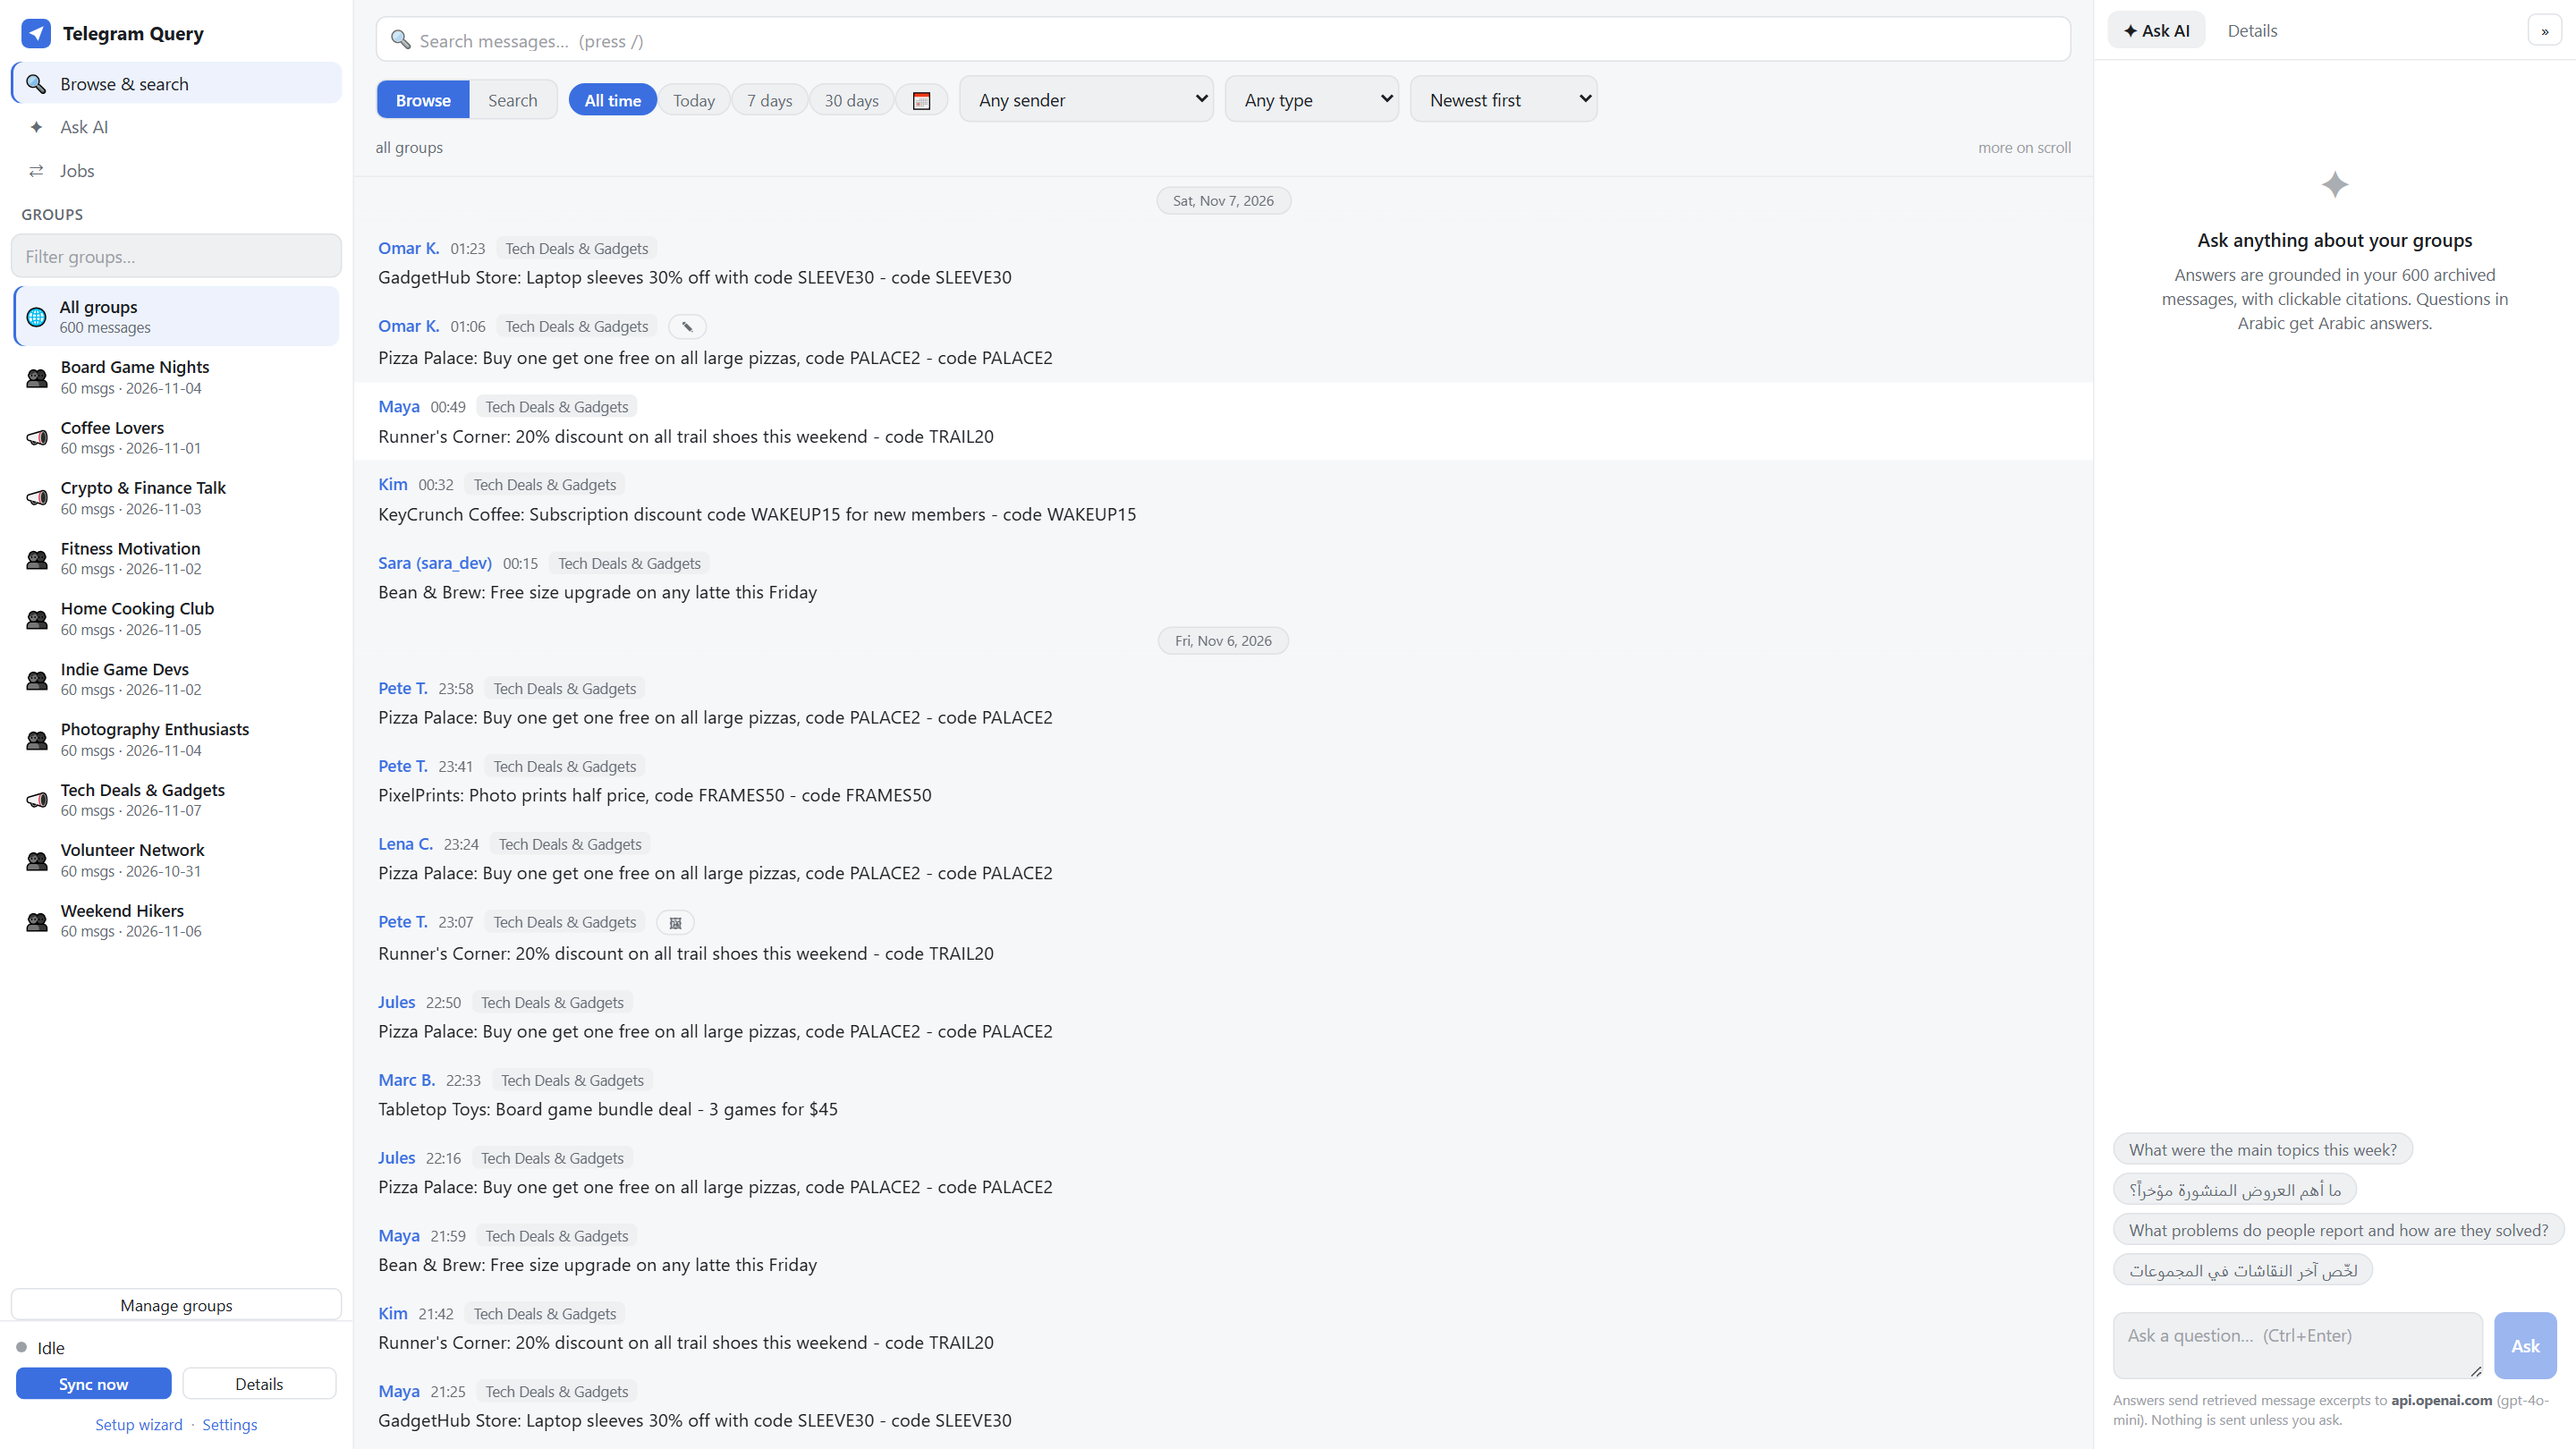
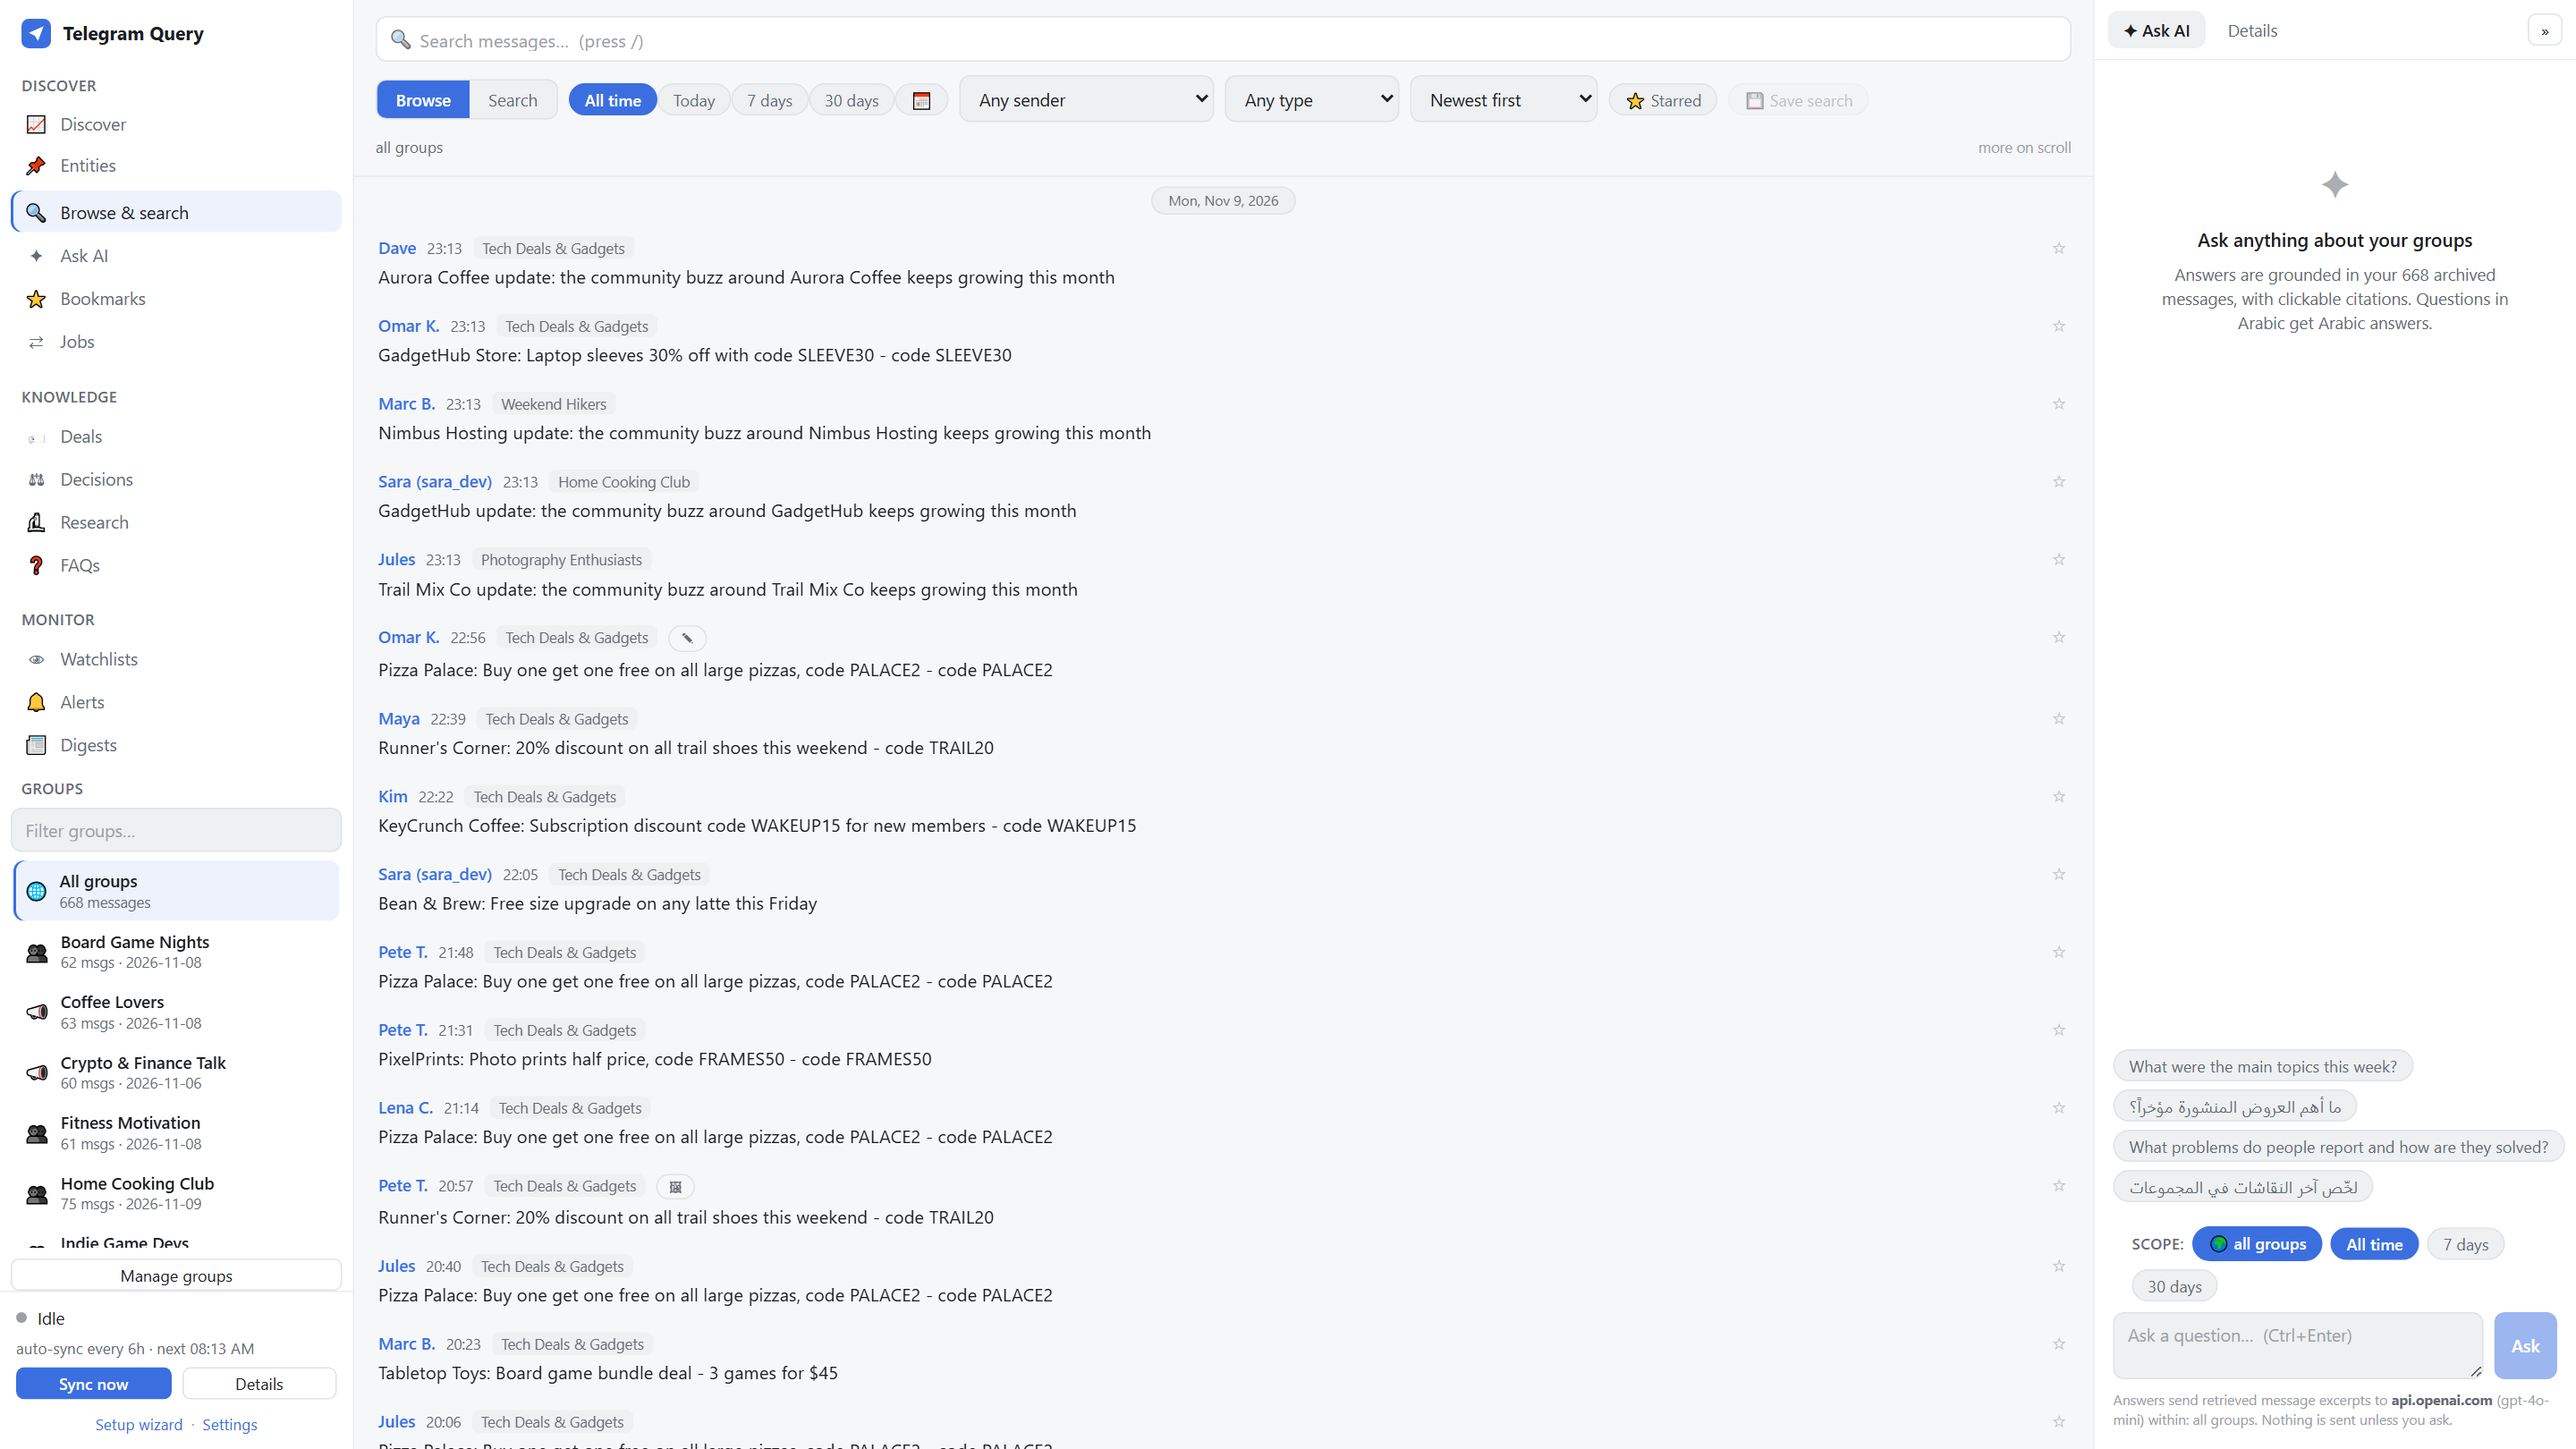
docs: showcase Discover landing view with refreshed screenshots
- README now leads with Discover and drops the "new" tag
- add discover dark/light screenshots; refresh feed, search, onboarding
- take_screenshots.py captures Discover first, then Browse feed

diff --git a/scripts/take_screenshots.py b/scripts/take_screenshots.py
@@ -113,16 +113,33 @@ def main() -> None:
             page = ctx.new_page()
             base = f"http://127.0.0.1:{args.port}"
 
-            def goto_feed(theme: str):
-                """Load the feed in the given theme, wizard dismissed."""
-                page.goto(f"{base}/?shot")
-                page.wait_for_selector(".app")
-                page.evaluate(f"localStorage.setItem('tgq-theme', '{theme}')")
-                page.reload()
-                page.wait_for_selector(".app")
+            def dismiss_wizard():
                 page.wait_for_timeout(2500)
                 if page.locator(".wizard").count():
                     page.click(".wizard-head .btn")
+
+            def set_theme(theme: str):
+                page.evaluate(f"localStorage.setItem('tgq-theme', '{theme}')")
+                page.reload()
+                page.wait_for_selector(".app")
+
+            def open_discover(theme: str):
+                """Load the app in discover mode (default landing view)."""
+                page.goto(f"{base}/?shot")
+                page.wait_for_selector(".app")
+                set_theme(theme)
+                dismiss_wizard()
+                # wait for discover data (trending topics or empty state)
+                page.wait_for_selector(".trend-row, .side-note")
+                page.wait_for_timeout(600)
+
+            def open_browse(theme: str):
+                """Switch to Browse & search and wait for the feed."""
+                page.goto(f"{base}/?shot")
+                page.wait_for_selector(".app")
+                set_theme(theme)
+                dismiss_wizard()
+                page.locator("button:has-text('Browse')").first.click()
                 page.wait_for_selector(".msg-card")
                 page.wait_for_timeout(600)
 
@@ -139,20 +156,28 @@ def main() -> None:
             page.wait_for_timeout(400)
             save("onboarding")
 
-            # 2) dark feed with the ten synthetic groups
-            goto_feed("dark")
+            # 2) Discover view (dark) — the new landing view since v0.7
+            open_discover("dark")
+            save("discover-dark")
+
+            # 3) Browse feed (dark)
+            open_browse("dark")
             assert page.locator(".group-row").count() == 11  # 10 groups + All
             save("feed-dark")
 
-            # 3) search with highlighting
+            # 4) search with highlighting
             page.fill(".searchbox input", "discount")
             page.press(".searchbox input", "Enter")
             page.wait_for_selector("mark")
             page.wait_for_timeout(800)
             save("search")
 
-            # 4) light feed
-            goto_feed("light")
+            # 5) Discover view (light)
+            open_discover("light")
+            save("discover-light")
+
+            # 6) Browse feed (light)
+            open_browse("light")
             save("feed-light")
 
             browser.close()

diff --git a/README.md b/README.md
@@ -3,24 +3,27 @@
 **A local-first, searchable, AI-queryable archive for your Telegram groups.**
 
 Connect your Telegram account, track the groups you care about, and turn
-them into a private, searchable knowledge base you own. Browse full history
-with day separators and filters, run full-text searches across Arabic and
-English, and ask questions answered *only* from your actual messages — with
-clickable citations back to the originals.
+them into a private, searchable knowledge base you own. The app opens on a
+**Discover** view — trending topics, cross-group stories, unanswered
+questions, and group activity — all computed deterministically from your
+archive, no AI required. Browse full history with day separators and
+filters, run full-text searches across Arabic and English, and ask questions
+answered *only* from your actual messages — with clickable citations back to
+the originals.
 
 Everything runs on your machine: the messages, the database, and your
 Telegram session never leave it.
 
 <p>
-  <img src="docs/screenshots/feed-dark.png" alt="Browse and search your archive (dark theme)" width="49.5%">
-  <img src="docs/screenshots/feed-light.png" alt="Browse and search your archive (light theme)" width="49.5%">
+  <img src="docs/screenshots/discover-dark.png" alt="Discover trending topics across your communities (dark theme)" width="49.5%">
+  <img src="docs/screenshots/discover-light.png" alt="Discover trending topics across your communities (light theme)" width="49.5%">
 </p>
 
 ## Highlights
 
 - **Local-first & private** — SQLite archive on your disk; no cloud, no
   telemetry. The server binds to `127.0.0.1` by default.
-- **Community discovery (new)** — the app opens on a **Discover** view:
+- **Community discovery** — the app opens on a **Discover** view:
   trending topics (deterministic burst scoring over a bilingual term
   index), the same post forwarded across your groups, unanswered
   questions, entity tracking (brands/products/places — never people),
@@ -106,6 +109,8 @@ configures an AI provider (with a live "test connection" button), and
 starts your first sync. Everything it saves lands in your local `.env`.
 See [docs/installation.md](docs/installation.md) for details, or try the
 app with synthetic data instead: `python scripts/seed_demo.py`.
+
+![Browse your archive](docs/screenshots/feed-dark.png)
 
 ![Search with highlights](docs/screenshots/search.png)
 
